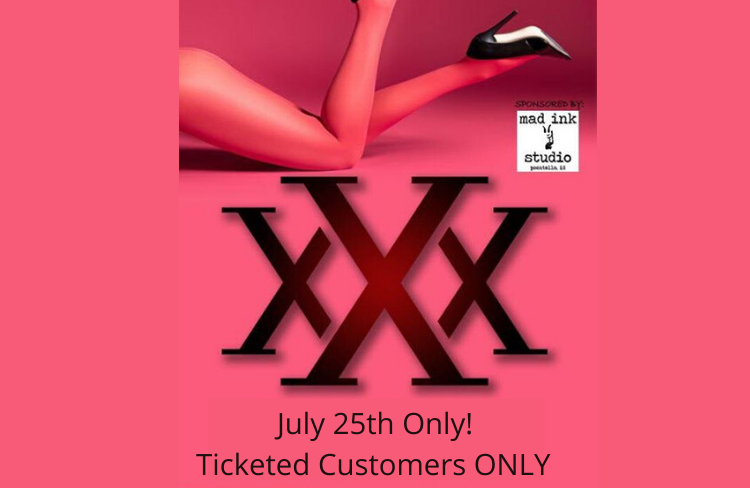
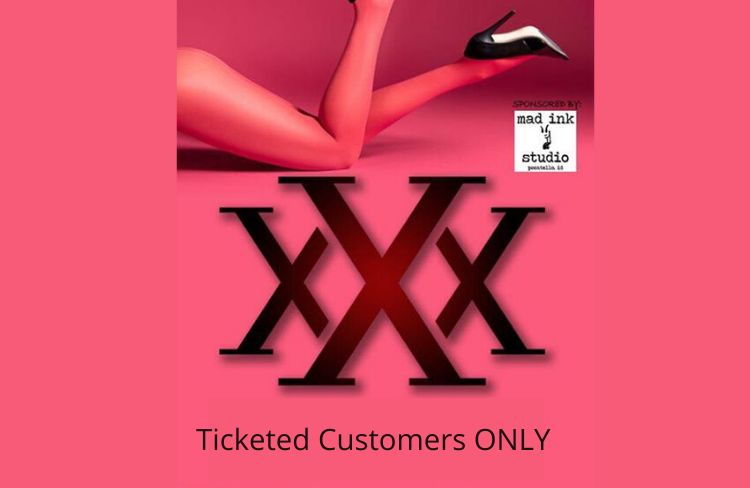
new show and artwork

diff --git a/resources/views/Public/Bar/welcome.blade.php b/resources/views/Public/Bar/welcome.blade.php
@@ -92,7 +92,7 @@
                     <!-- News Item 01 -->
                     <div class="news-item">
                         <div class="image">
-                            <div class="date"><span class="day">July 25, 2020 </span><span class="month">JUL</span></div>
+                            <div class="date"><span class="day">25 </span><span class="month">JUL</span></div>
                             <img src="assets/media/shows/xxx.png" class="img-responsive center-block" alt="Get Your Tickets"></div>
                         <div class="details">
                             <h3>XXX</h3>
@@ -110,6 +110,30 @@
                     <!-- /.News Item 01 -->
                 </div>
         </div>
+        <div class="row">
+        
+        <div class="col-sm-4">
+            <!-- News Item 01 -->
+            <div class="news-item">
+                <div class="image">
+                    <div class="date"><span class="day">1 </span><span class="month">AUG</span></div>
+                    <img src="assets/media/shows/xxx.png" class="img-responsive center-block" alt="Get Your Tickets"></div>
+                <div class="details">
+                    <h3>XXX</h3>
+                    <h4>Aug 1 </h4>
+                   
+                    <p> Round 2!</p>
+                 
+                        <p><a href="https://clubcharleys.simpletix.com/e/56192" class="btn btn-main-ghost btn-block">Tickets</a></p>
+                 
+                </div>
+                <footer>
+
+                </footer>
+            </div>
+            <!-- /.News Item 01 -->
+        </div>
+</div>
         <!-- /.CTA Boxes -->
     </div>
     <!-- /.container -->
